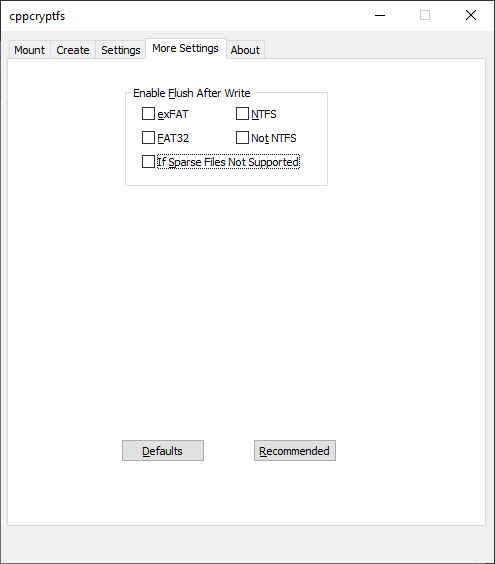
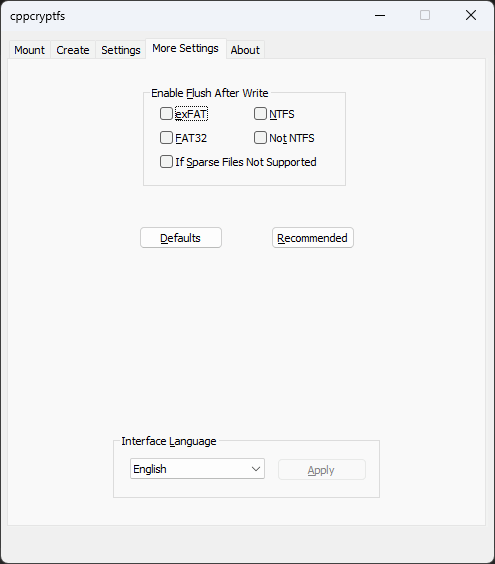
document language change feature on more settings page

diff --git a/README.md b/README.md
@@ -384,7 +384,7 @@ Pressing the Reset Warnings button will turn back on any warning dialogs which w
 
 More Settings
 ---------
-There is also a settings tab.  
+There is also a more settings tab.  
 
 ![Alt text](/screenshots/screenshot_more_settings.png?raw=true "Settings tab")  
 *Recommended settings shown*
@@ -402,6 +402,10 @@ The workaround is to enable flush after write.  When this setting is on, cppcryp
 This option reduces write performance noticeably. For copying large files, it's about 50% worse.  For lots of small files, it's much worse than that.
 
 The setting is on if any of the condidtions are true, so to enable it always, one could check both the "NTFS" and "Not NTFS" boxes.
+
+**Interface Language**
+
+Here you can change the language of the interface. After changing it, you must go to the mount tab and exit the program and then restart it for the change to take effect.
 
 
 Saved Passwords
